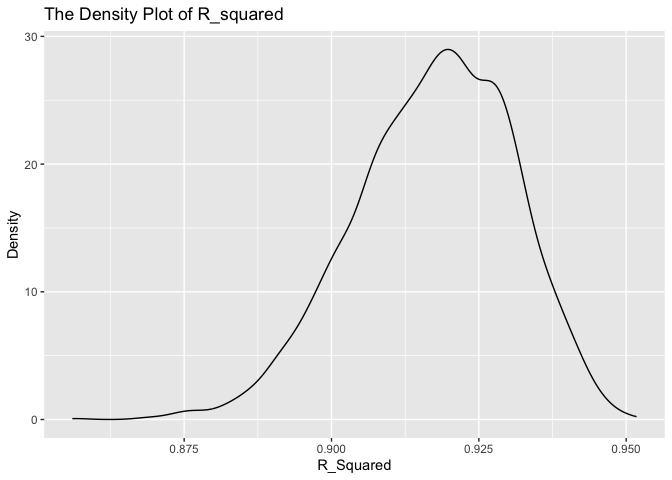
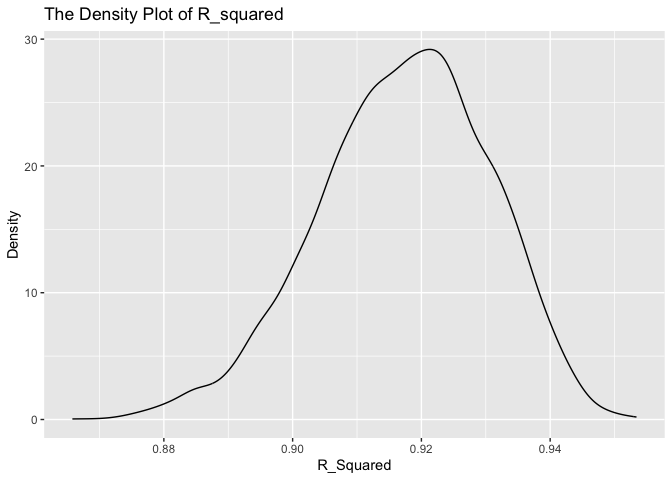
fixed the existing question

diff --git a/p8105_hw6_yz4717.md b/p8105_hw6_yz4717.md
@@ -24,7 +24,7 @@ library(modelr)
 
 # Problem 1
 
-data cleaning
+## data cleaning
 
 ``` r
 homicide= 
@@ -59,7 +59,7 @@ homicide=
     ## Caused by warning:
     ## ! NAs introduced by coercion
 
-Baltimore glm function
+## Baltimore glm function
 
 ``` r
 baltimore_glm = 
@@ -67,7 +67,7 @@ baltimore_glm =
   glm(solve_not ~ victim_age + victim_sex + victim_race, family = binomial(), data = _)
 ```
 
-estimate and confidence interval of the adjusted odds ratio
+## estimate and confidence interval of the adjusted odds ratio
 
 ``` r
 baltimore_glm |> 
@@ -85,7 +85,7 @@ baltimore_glm |>
 |------:|------------:|------------:|
 | 0.426 |       0.325 |       0.558 |
 
-estimated ORs and CIs for each city.
+## Estimated ORs and CIs for each city.
 
 ``` r
 all_cities = 
@@ -117,7 +117,7 @@ all_cities |>
 | Baton Rouge, LA | 0.381 |       0.209 |       0.695 |
 | Birmingham, AL  | 0.870 |       0.574 |       1.318 |
 
-plot
+## Making plot
 
 ``` r
 all_cities |> 
@@ -136,7 +136,7 @@ confidence intervals are narrow and do not contain 1, suggesting a
 significant difference in resolution rates by sex after adjustment for
 victim age and race.
 
-## Problem 2
+# Problem 2
 
 ``` r
 weather_df = 
@@ -194,12 +194,17 @@ head(weather_q2_df)
     ## # A tibble: 6 × 3
     ##   .id   r.squared log_data
     ##   <chr>     <dbl>    <dbl>
-    ## 1 0001      0.905    -7.23
-    ## 2 0002      0.916   NaN   
-    ## 3 0003      0.917   NaN   
-    ## 4 0004      0.913   NaN   
-    ## 5 0005      0.907    -6.74
-    ## 6 0006      0.919   NaN
+    ## 1 0001      0.904    -6.04
+    ## 2 0002      0.906   NaN   
+    ## 3 0003      0.915   NaN   
+    ## 4 0004      0.912    -6.70
+    ## 5 0005      0.894    -5.17
+    ## 6 0006      0.912    -7.14
+
+I use the `bootstrap` to perform resampling.And I conduct the linear
+regression modeling, and various data transformations on the given data
+set. And I use `mutate` to calculate the needed value in the question
+and `unnest` the result as well.
 
 Then, I would like to plot the r_squared distribution.
 
@@ -229,7 +234,7 @@ weather_q2_df |>
        title = "The Density Plot of Log Data")
 ```
 
-    ## Warning: Removed 3400 rows containing non-finite values (`stat_density()`).
+    ## Warning: Removed 3373 rows containing non-finite values (`stat_density()`).
 
 ![](p8105_hw6_yz4717_files/figure-gfm/density_plot_log-1.png)<!-- -->
 
@@ -246,7 +251,7 @@ quantile(
 ```
 
     ##      2.5%     97.5% 
-    ## 0.8895559 0.9407479
+    ## 0.8892818 0.9404700
 
 - Here comes the 95% CI of $log(\hat{\beta_1} * \hat{\beta_2})$
   excluding `NULL` data.
@@ -260,7 +265,7 @@ quantile(
 ```
 
     ##      2.5%     97.5% 
-    ## -9.398936 -4.606905
+    ## -8.892434 -4.562035
 
 ## Problem 3
 
@@ -324,6 +329,10 @@ head(birthweight_df)
     ## # ℹ 10 more variables: mheight <dbl>, momage <dbl>, mrace <fct>, parity <dbl>,
     ## #   pnumlbw <dbl>, pnumsga <dbl>, ppbmi <dbl>, ppwt <dbl>, smoken <dbl>,
     ## #   wtgain <dbl>
+
+First of all, I import the data into the environment and use the
+function `mutate` and `case_match` to update the value in the data.
+Then, I convert these variables into `factors`.
 
 ``` r
 lm_q3 = lm(bwt ~ .,
@@ -410,6 +419,12 @@ summary(lm_q3_original)
     ## Multiple R-squared:  0.7061, Adjusted R-squared:  0.7053 
     ## F-statistic: 945.5 on 11 and 4330 DF,  p-value: < 2.2e-16
 
+At first, I have used all the variables in the data set as predictors.
+Then, I reviewed the summary result and check the p-values of all
+predictors. As we known, to make the adjusted r-squared higher, I need
+to drop the insignificant variables in the original model. Repeat this
+step, until all predictors have a p-value less than 0.05.
+
 ``` r
 birthweight_df |>
   add_predictions(lm_q3) |>
@@ -433,6 +448,11 @@ birthweight_df |>
     ## "non-estim") has doubtful cases
 
 ![](p8105_hw6_yz4717_files/figure-gfm/prediction_residual-1.png)<!-- -->
+
+Most points gathered in the region of 2000-4000 fitted values and
+-1000-1000 residuals. These dots are gathered into a cluster. A small
+number of points are distributed far away from the cluster in the
+periphery of the cluster.
 
 ## Length at birth and gestational age
 
@@ -524,7 +544,8 @@ error_original = mean(errors_original_df)
 
 ``` r
 # model 1
-errors_model1_df = map2_dbl(
+errors_model1_df = 
+  map2_dbl(
   pull(cv_model,train),
   pull(cv_model,test), 
   ~{
@@ -535,7 +556,8 @@ errors_model1_df = map2_dbl(
 error_model1 = mean(errors_model1_df)
 
 # model 2
-errors_model2_df = map2_dbl(
+errors_model2_df = 
+  map2_dbl(
   pull(cv_model,train),
   pull(cv_model,test),  
   ~{
@@ -545,6 +567,10 @@ errors_model2_df = map2_dbl(
 
 error_model2 = mean(errors_model2_df)
 ```
+
+We can use `crossv_mc` to split the data into k exclusive partitions and
+uses each partition for a test-training split. Then, I built three
+different models as requested in the question and computed their error.
 
 ``` r
 tibble(
@@ -558,3 +584,8 @@ tibble(
 | original |  model_1 |  model_2 |
 |---------:|---------:|---------:|
 | 277.2568 | 330.7093 | 288.6215 |
+
+From the lessons we already have, we can know that Error can be used to
+compare different models. According to the given result, we can clearly
+see the optimized original model have the lowest Error while the other
+model perform badly.
